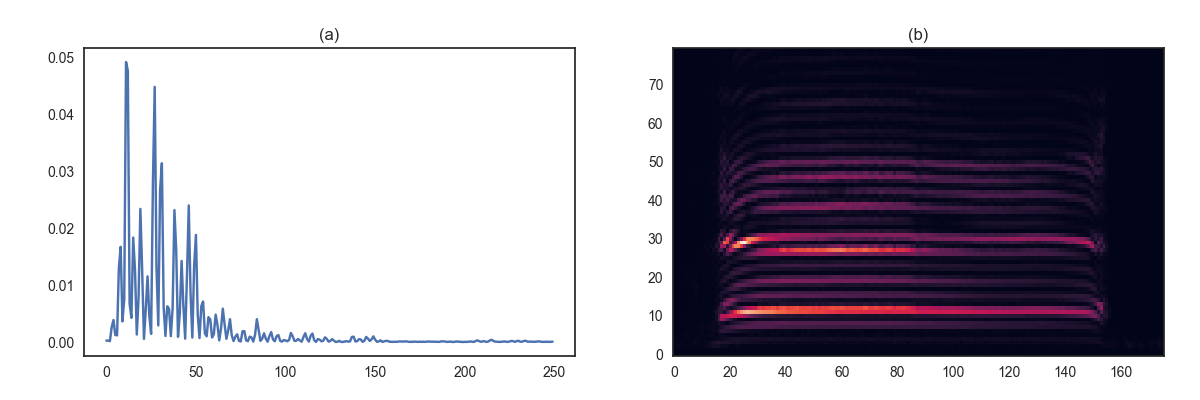
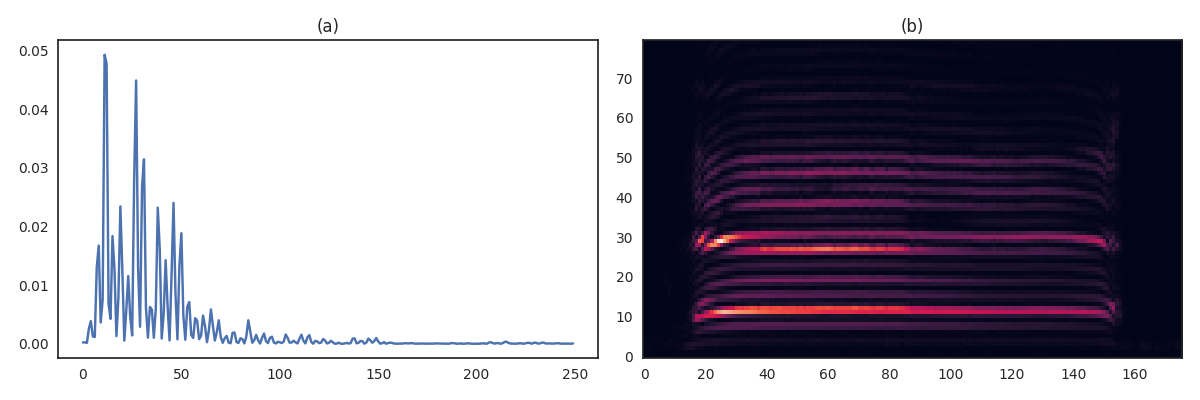
fixed mel scale graphics + added graphics of features to presentation

diff --git a/codes/features_vertical.py b/codes/features_vertical.py
@@ -1,0 +1,98 @@
+import pathlib
+
+import pylab as pl
+import seaborn as sns
+from matplotlib import collections as mc
+from matplotlib.ticker import MaxNLocator, FuncFormatter
+
+from codes.audio import Audio
+from codes.mel_scale import mel
+
+FS = 44100
+
+
+def plot_temporal_descriptors(audio):
+    awf = [[(i, f[0]), (i, f[1])] for i, f in enumerate(audio.audio_waveform)]
+
+    fig, (ax1, ax2) = pl.subplots(2, 1, figsize=(6, 6))
+    fig.subplots_adjust(left=0.07, right=0.97)
+
+    lc = mc.LineCollection(awf, linewidths=2)
+    ax1.add_collection(lc)
+    ax1.autoscale()
+    ax1.set_title('Audio Waveform (AWF)')
+
+    ax2.plot(audio.audio_power)
+    ax2.set_title('Audio Power (AP)')
+
+    fig.show()
+
+
+def plot_spectral_descriptors(audio):
+    fig, ax = pl.subplots(4, 1, figsize=(6, 6))
+    fig.subplots_adjust(left=0.07, right=0.97)
+
+    ax[0].plot(audio.spectral_centroid, label='SC')
+    ax[0].plot(audio.spectral_spread, label='SS')
+    ax[0].legend()
+    ax[0].set_title('Spectral Centroid (SC) y Spectral Spread (SS)')
+
+    ax[1].plot(audio.spectral_roll_off)
+    ax[1].set_title('Spectral Roll-off (SRO)')
+
+    ax[2].plot(audio.spectral_flux)
+    ax[2].set_title('Spectral Flux (SFX)')
+
+    ax[3].plot(audio.spectral_flatness)
+    ax[3].set_title('Spectral Flatness (SF)')
+
+    fig.show()
+
+
+def plot_harmonic_descriptors(audio):
+    fig, (ax1, ax2, ax3) = pl.subplots(3, 1, figsize=(6, 6))
+    fig.subplots_adjust(left=0.055, right=0.98)
+
+    ax1.plot(audio.inharmonicity)
+    ax1.set_title('Inharmonicity (INH)')
+
+    ax2.plot(audio.oer)
+    ax2.set_title('Odd to Even Harmonic Energy Ratio (OER)')
+
+    ax3.imshow(audio.tristimulus.T[:, :], aspect='auto', origin='lower', interpolation='none')
+    ax3.set_title('Tristimulus')
+    ax3.yaxis.set_major_locator(MaxNLocator(integer=True))
+
+    fig.show()
+
+
+def plot_mfccs(audio):
+    fig, (ax1, ax2) = pl.subplots(2, 1, figsize=(6, 6))
+    fig.subplots_adjust(left=0.05, right=0.97)
+
+    ax1.plot([mel(x) for x in range(16000)])
+    ax1.set_xlabel('hertz')
+    ax1.set_ylabel('mels')
+
+    ax2.imshow(audio.mfcc.T[1:, :], aspect='auto', origin='lower', interpolation='none')
+    ax2.set_title('MFCC')
+    ax2.yaxis.set_major_formatter(FuncFormatter(lambda x, pos: int(x + 1)))
+    ax2.yaxis.set_major_locator(MaxNLocator(integer=True))
+
+    fig.show()
+
+
+def main():
+    sns.set()
+    sns.set_style('white')
+
+    audio = Audio(pathlib.Path('../sounds/sheep.wav'))
+
+    # plot_temporal_descriptors(audio)
+    # plot_spectral_descriptors(audio)
+    # plot_harmonic_descriptors(audio)
+    plot_mfccs(audio)
+
+
+if __name__ == '__main__':
+    main()

diff --git a/thesis/presentation/1_features.tex b/thesis/presentation/1_features.tex
@@ -8,11 +8,7 @@
 
         \begin{figure}[!h]
             \centering
-            \includegraphics[width=\textwidth]{oscillogram.png}
-        \end{figure}
-        \begin{figure}[!h]
-            \centering
-            \includegraphics[width=\textwidth]{spectrum+spectrogram.png}
+            \includegraphics[width=\textwidth]{oscillogram+spectrum+spectrogram.png}
         \end{figure}
 
         \column{0.5\textwidth}
@@ -30,11 +26,7 @@
 
         \begin{figure}[!h]
             \centering
-            \includegraphics[width=\textwidth]{oscillogram.png}
-        \end{figure}
-        \begin{figure}[!h]
-            \centering
-            \includegraphics[width=\textwidth]{spectrum+spectrogram.png}
+            \includegraphics[width=\textwidth]{temporal-features-vertical.png}
         \end{figure}
 
         \column{0.5\textwidth}
@@ -47,14 +39,53 @@
 \begin{frame}
     \frametitle{Características espectrales}
 
+    \begin{columns}
+        \column{0.5\textwidth}
+
+        \begin{figure}[!h]
+            \centering
+            \includegraphics[width=\textwidth]{spectral-features-vertical.png}
+        \end{figure}
+
+        \column{0.5\textwidth}
+
+        Hello, World!
+
+    \end{columns}
 \end{frame}
 
 \begin{frame}
     \frametitle{Características armónicas}
 
+    \begin{columns}
+        \column{0.5\textwidth}
+
+        \begin{figure}[!h]
+            \centering
+            \includegraphics[width=\textwidth]{harmonic-features-vertical.png}
+        \end{figure}
+
+        \column{0.5\textwidth}
+
+        Hello, World!
+
+    \end{columns}
 \end{frame}
 
 \begin{frame}
     \frametitle{Mel Frequency Cepstral Coefficients}
 
+    \begin{columns}
+        \column{0.5\textwidth}
+
+        \begin{figure}[!h]
+            \centering
+            \includegraphics[width=\textwidth]{mel-scale+mfcc.png}
+        \end{figure}
+
+        \column{0.5\textwidth}
+
+        Hello, World!
+
+    \end{columns}
 \end{frame}

diff --git a/codes/sound_visualizations_vertical.py b/codes/sound_visualizations_vertical.py
@@ -1,0 +1,45 @@
+import essentia
+import essentia.standard as es
+import pylab as pl
+import seaborn as sns
+
+
+def main():
+    sns.set()
+    sns.set_style("white")
+
+    audio = es.MonoLoader(filename='../sounds/sheep.wav')()
+
+    fig, (ax1, ax2, ax3) = pl.subplots(3, 1, figsize=(6, 6))
+    fig.subplots_adjust(left=0.06, right=0.97)
+
+    ax1.plot(audio)
+    ax1.set_title("Oscilograma")
+
+    w = es.Windowing(type='hamming')
+    spectrum = es.Spectrum()  # FFT() would return the complex FFT, here we just want the magnitude spectrum
+
+    frame = audio[20000: 20000 + 1024]
+    spec = spectrum(w(frame))
+
+    ax2.plot(spec[:250])
+    ax2.set_title('Espectro')
+
+    specs = []
+
+    for frame in es.FrameGenerator(audio, frameSize=1024, hopSize=512, startFromZero=True):
+        spec = spectrum(w(frame))
+        specs.append(spec)
+
+    # transpose to have it in a better shape
+    # we need to convert the list to an essentia.array first (== numpy.array of floats)
+    specs = essentia.array(specs).T
+
+    ax3.imshow(specs[:80, :], aspect='auto', origin='lower', interpolation='none')
+    ax3.set_title('Espectrograma')
+
+    fig.show()
+
+
+if __name__ == '__main__':
+    main()

diff --git a/thesis/chapters/1_features/mfcc.tex b/thesis/chapters/1_features/mfcc.tex
@@ -7,7 +7,7 @@ La \textbf{escala Mel} (figura~\ref{img:mel-scale}) fue desarrollada con el prop
 
 \begin{figure}[!h]
     \centering
-    \includegraphics[width=0.5\textwidth]{mel-scale.png}
+    \includegraphics[width=0.75\textwidth]{mel-scale.png}
     \caption{Correspondencia entre las unidades de medida de frecuencias \textit{hertz} y \textit{mel} de acuerdo con la escala Mel.}
     \label{img:mel-scale}
 \end{figure}

diff --git a/codes/mel_scale.py b/codes/mel_scale.py
@@ -1,0 +1,22 @@
+import pylab as pl
+import seaborn as sns
+
+
+def mel(f):
+    return 2595 * pl.log10(1 + f / 700)
+
+
+def main():
+    sns.set()
+
+    y = [mel(x) for x in range(16000)]
+
+    fig, ax = pl.subplots(1, 1, figsize=(8, 4))
+    ax.plot(y, )
+    ax.set_xlabel('hertz')
+    ax.set_ylabel('mels')
+    fig.show()
+
+
+if __name__ == '__main__':
+    main()

diff --git a/thesis/presentation/presentation.tex b/thesis/presentation/presentation.tex
@@ -5,7 +5,6 @@
 
     \frame{\titlepage}
 
-    \section*{Contenido}
     \begin{frame}
         \frametitle{Contenido}
         \tableofcontents
